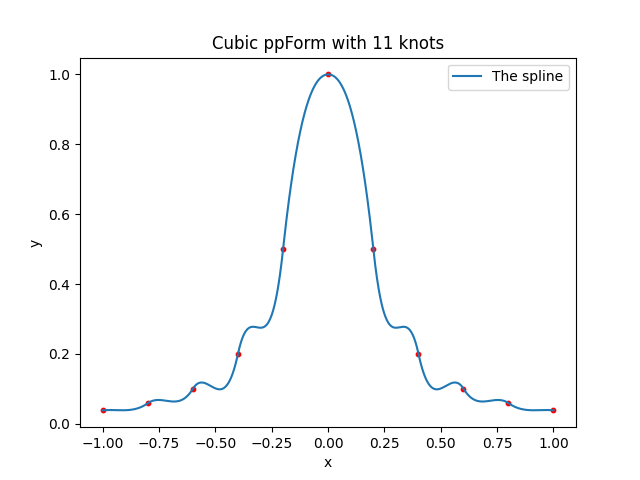
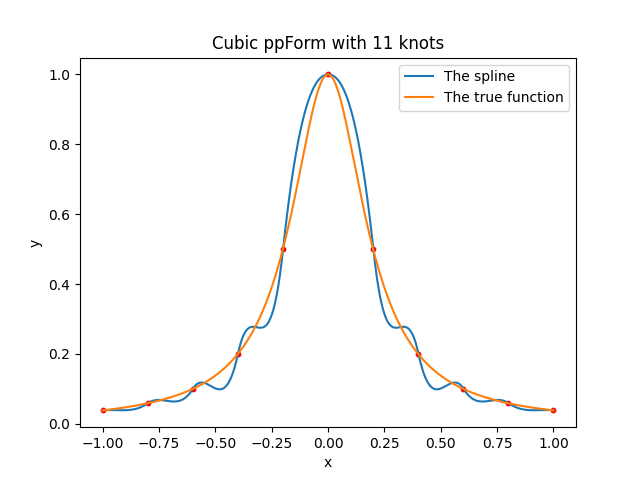
Task_C

diff --git a/Project/src/Bspline.h b/Project/src/Bspline.h
@@ -63,6 +63,63 @@ public:
         return Spline(N, knots, polynomials);
     }
 
+    Spline cardinal_quad_Bspline() {
+        double h1 = knots[1].first - knots[0].first;
+        double h2 = knots[N - 1].first - knots[N - 2].first;
+        for (int i = 1; i <= n; ++i) {
+            knots.insert(knots.begin(), std::make_pair(knots[0].first - h1, 0.0));
+            knots.push_back(std::make_pair(knots[N - 1 + i].first + i * h2, 0.0));
+        }
+        for (int i = 1; i <= N; ++i)
+            construct_basis_polynomials(i, n);
+
+        double coeff_matrix[N * N];
+        coeff_matrix[0] = 5;
+        coeff_matrix[N] = 1;
+        for (int i = 1; i < N - 1; ++i) {
+            coeff_matrix[i*N - N - i] = 1;
+            coeff_matrix[i*N + i] = 6;
+            coeff_matrix[i*N + N + i] = 1;
+        }
+        coeff_matrix[N*N - N - 1] = 1;
+        coeff_matrix[N*N - 1] = 5;
+
+        double rhs[N];
+        for (int i = 0; i < N; ++i)
+            rhs[i] = 8 * knots[i].second;
+        rhs[0] -= 2 * boundary_conditions[0];
+        rhs[N - 1] -= 2 * boundary_conditions[1];
+
+        EquationSolver linear_system(N, coeff_matrix, rhs);
+        double *solution = linear_system.solve();
+
+        std::vector<Polynomial> polynomials;
+        polynomials.push_back(Polynomial(0, {0.0}));
+        for (int i = 1; i <= N + 1; ++i) {
+            if (i == 1) {
+                double co = 2 * knots[2].first - solution[0];
+                Polynomial temp(0, {co});
+                polynomials.push_back(temp * basis_polynomials[i][n][0]);
+                polynomials.push_back(temp * basis_polynomials[i][n][1]);
+                continue;
+            }
+            if (i == N + 1) {
+                double co = 2 * knots[N + 1].first - solution[N - 2];
+                Polynomial temp(0, {co});
+                polynomials[N + 1] = polynomials[N + 1] + temp * basis_polynomials[i][n][0];
+                continue;
+            }
+            Polynomial temp(0, {solution[i - 2]});
+            polynomials[i] = polynomials[i] + temp * basis_polynomials[i][n][0];
+            polynomials.push_back(temp * basis_polynomials[i][n][1]); 
+        }
+        for (int i = 0; i <= n; ++i)
+            polynomials.erase(polynomials.begin());
+        for (int i = 0; i < n; ++i)
+            knots.erase(knots.begin());
+        return Spline(N, knots, polynomials);
+    }
+
     Spline complete_cubic_Bspline() {
         double h1 = knots[1].first - knots[0].first;
         double h2 = knots[N - 1].first - knots[N - 2].first;
@@ -70,6 +127,10 @@ public:
             knots.insert(knots.begin(), std::make_pair(knots[0].first - h1, 0.0));
             knots.push_back(std::make_pair(knots[N - 1 + i].first + i * h2, 0.0));
         }
+
+        basis_polynomials.reserve(N + 10);
+        for (auto& second_element: basis_polynomials) 
+            second_element.reserve(n + 5);
 
         for (int i = 1; i <= N + n - 1; ++i)
             construct_basis_polynomials(i, n);
@@ -80,9 +141,9 @@ public:
         coeff_matrix[N] = (knots[3].first - knots[2].first) / (knots[4].first + knots[3].first - 2 * knots[1].first);
 
         for (int i = 1; i < N - 1; ++i) {
-            coeff_matrix[(i - 1)*N + i] = basis_polynomials[i + 1][n][2](knots[i + 2].first);
+            coeff_matrix[i*N - N + i] = basis_polynomials[i + 1][n][2](knots[i + 2].first);
             coeff_matrix[i*N + i] = basis_polynomials[i + 2][n][1](knots[i + 2].first);
-            coeff_matrix[i*N + i + 1] = basis_polynomials[i + 3][n][0](knots[i + 2].first);
+            coeff_matrix[i*N + N + 1] = basis_polynomials[i + 3][n][0](knots[i + 2].first);
         }
 
         coeff_matrix[N*N - N - 1] = (knots[N + 1].first - knots[N].first) / (2 * knots[N + 2].first - knots[N + 2].first - knots[N - 1].first);
@@ -135,6 +196,10 @@ public:
             knots.push_back(std::make_pair(knots[N - 1 + i].first + i * h2, 0.0));
         }
 
+        basis_polynomials.reserve(N + 10);
+        for (auto& second_element: basis_polynomials) 
+            second_element.reserve(n + 5);
+
         for (int i = 1; i <= N + n - 1; ++i)
             construct_basis_polynomials(i, n);
 
@@ -143,9 +208,9 @@ public:
         coeff_matrix[0] = 1.0/3 + (knots[4].first - knots[2].first) / (2 * (knots[4].first + knots[3].first - 2 * knots[2].first));
 
         for (int i = 1; i < N - 1; ++i) {
-            coeff_matrix[(i - 1)*N + i] = basis_polynomials[i + 1][n][2](knots[i + 2].first);
+            coeff_matrix[i*N - N + i] = basis_polynomials[i + 1][n][2](knots[i + 2].first);
             coeff_matrix[i*N + i] = basis_polynomials[i + 2][n][1](knots[i + 2].first);
-            coeff_matrix[i*N + i + 1] = basis_polynomials[i + 3][n][0](knots[i + 2].first);
+            coeff_matrix[i*N + N + i] = basis_polynomials[i + 3][n][0](knots[i + 2].first);
         }
 
         coeff_matrix[N*N - 1] = 1.0/3 + (knots[N + 1].first - knots[N - 1].first) / (2 * (2 * knots[N + 1].first - knots[N].first - knots[N - 1].first));
@@ -198,6 +263,10 @@ public:
         knots.push_back(std::make_pair(knots[N + 2].first + knots[5].first - knots[3].first, knots[5].second));
         knots.push_back(std::make_pair(knots[N + 2].first + knots[6].first - knots[3].first, knots[6].second));
 
+        basis_polynomials.reserve(N + 10);
+        for (auto& second_element: basis_polynomials) 
+            second_element.reserve(n + 5);
+
         for (int i = 1; i <= N + n - 1; ++i)
             construct_basis_polynomials(i, n);
 
@@ -208,9 +277,9 @@ public:
         coeff_matrix[N * N - 2 * N] = basis_polynomials[1][n][2](knots[3].first);
 
         for (int i = 1; i < N - 1; ++i) {
-            coeff_matrix[(i - 1)*N + i] = basis_polynomials[i + 1][n][2](knots[i + 2].first);
+            coeff_matrix[i*N - N + i] = basis_polynomials[i + 1][n][2](knots[i + 2].first);
             coeff_matrix[i*N + i] = basis_polynomials[i + 2][n][1](knots[i + 2].first);
-            coeff_matrix[i*N + i + 1] = basis_polynomials[i + 3][n][0](knots[i + 2].first);
+            coeff_matrix[i*N + N + i] = basis_polynomials[i + 3][n][0](knots[i + 2].first);
         }
 
         coeff_matrix[2 * N - 1] = basis_polynomials[N + 2][n][0](knots[N + 2].first);
@@ -263,6 +332,10 @@ public:
             knots.insert(knots.begin(), std::make_pair(knots[0].first - h1, 0.0));
             knots.push_back(std::make_pair(knots[N - 1 + i].first + i * h2, 0.0));
         }
+
+        basis_polynomials.reserve(N + 2 * n + 1);
+        for (auto& second_element: basis_polynomials) 
+            second_element.reserve(n + 3);
 
         for (int i = 1; i <= N + n - 1; ++i)
             construct_basis_polynomials(i, n);

diff --git a/Project/doc/design.tex b/Project/doc/design.tex
@@ -266,6 +266,7 @@ The B-splines are a special case of the PP-splines. From \cref{sec:pp-form-splin
       0 & \text{otherwise}.
     \end{cases}
   \end{equation}
+  \label{def:b-spline}
 \end{definition}
 
 \begin{theorem}
@@ -303,6 +304,71 @@ And we have a theorem about the derivatives of B-splines yielded by \cref{eq:b-s
     \frac{\mathrm{d}}{\mathrm{d}x}B_i^n(x) = \frac{nB_i^{n - 1}(x)}{t_{i + n + 1} - t_{i - 1}} - \frac{nB_{i + 1}^{n - 1}(x)}{t_{i + n} - t_i}, \quad \forall x \in \mathbb{R}.
     \label{eq:b-spline-derivative}
   \end{equation}
+\end{theorem}
+
+\subsubsection{Cardinal B-splines}
+
+\begin{definition}
+  The \textit{cardinal B-spline} of degree $n$, denoted by $B_{i, \mathbb{Z}}^n$, is the B-spline in the \cref{def:b-spline} on the knot set $\mathbb{Z}$.
+  \label{def:cardinal-b-spline}
+\end{definition}
+
+For this special kind of B-spline, we have two theorems.
+
+\begin{theorem}
+  There is a unique B-spline $S(x) \in \mathbb{S}_3^2$ that interpolates $f(x)$ at $1, 2, \cdots, N$ with $S'(1) = f'(1)$ and $S'(N) = f'(N)$. Furthermore, this B-spline is 
+  \begin{equation}
+    S(x) = \sum_{i = -1}^N a_i b_{i, \mathbb{Z}}^3(x),
+    \label{eq:cardinal-cubic-b-spline-interpolation}
+  \end{equation}
+  where 
+  \begin{equation}
+    a_{-1} = a_1 - 2f'(1),\quad a_N = a_{N - 2} + 2f'(N),
+    \label{eq:cardinal-cubic-b-spline-coefficients}
+  \end{equation}
+  and $\mathbf{a}^T = [a_0, a_1, \cdots, a_{N - 1}]$ is the solution of the linear system $M \mathbf{a} = \mathbf{b}$ with 
+  \begin{equation}
+    \begin{aligned}
+      \mathbf{b}^T &= [3f(1) + f'(1), 6f(2), \cdots, 6f(N - 1), 3f(N) - f'(N)], \\
+      M &= \begin{bmatrix}
+        2 & 1 &   &   &   \\
+        1 & 4 & 1 &   &   \\
+          & \ddots & \ddots & \ddots &   \\
+          &   & 1 & 4 & 1 \\
+          &   &   & 1 & 2
+      \end{bmatrix}.
+    \end{aligned}
+    \label{eq:cardinal-cubic-b-spline-linear-system}
+  \end{equation}
+  \label{thm:cardinal-cubic-b-spline-interpolation}
+\end{theorem}
+
+\begin{theorem}
+  There is a unique B-spline $S(x) \in \mathbb{S}_2^1$ that interpolates $f(x)$ at $t_i = i + \frac{1}{2}$ for each $i = 1, 2, \cdots, N$ with end conditions $S(1) = f(1)$ and $S(N) = f(N)$. Furthermore, this B-spline is 
+  \begin{equation}
+    S(x) = \sum_{i = 1}^N a_i B_{i, \mathbb{Z}}^2(x),
+    \label{eq:cardinal-quadratic-b-spline-interpolation}
+  \end{equation}
+  where 
+  \begin{equation}
+    a_0 = 2f(1) - a_1,\quad a_N = 2f(N) - a_{N - 1},
+    \label{eq:cardinal-quadratic-b-spline-coefficients}
+  \end{equation}
+  and $\mathbf{a}^T = [a_1, a_2, \cdots, a_N]$ is the solution of the linear system $M \mathbf{a} = \mathbf{b}$ with 
+  \begin{equation}
+    \begin{aligned}
+      \mathbf{b}^T &= [8f(\frac{3}{2}) - 2f(1), 8f(\frac{5}{2}), \cdots, 8f(N - \frac{3}{2}), 8f(N - \frac{1}{2}) - 2f(N)], \\
+      M &= \begin{bmatrix}
+        5 & 1 &   &   &   \\
+        1 & 6 & 1 &   &   \\
+          & \ddots & \ddots & \ddots &   \\
+          &   & 1 & 6 & 1 \\
+          &   &   & 1 & 5
+      \end{bmatrix}.
+    \end{aligned}
+    \label{eq:cardinal-quadratic-b-spline-linear-system}
+  \end{equation}
+  \label{thm:cardinal-quadratic-b-spline-interpolation}
 \end{theorem}
 
 \subsubsection{Linear B-splines}

diff --git a/Project/src/draw_TaskA.py b/Project/src/draw_TaskA.py
@@ -1,0 +1,33 @@
+import numpy as np
+import matplotlib.pyplot as plt
+
+N = int(input())
+for j in range(N):
+
+    filename = input()
+
+    plt.figure()
+    n = int(input())
+    x1 = 0
+    xN = 0
+    for i in range(n):
+        x_temp = float(input())
+        y_temp = float(input())
+        if i == 0:
+            x1 = x_temp 
+        if i == n-1:
+            xN = x_temp
+        plt.scatter([x_temp], [y_temp], color = 'red', zorder = 2, s = 10)
+
+    x = np.linspace(x1, xN, 1000)
+    y1 = []
+    y2 = 1 / (1 + 25 * x ** 2)
+    for i in range(1000):
+        y1.append(float(input()))
+    plt.plot(x, y1, label = 'The spline')
+    plt.plot(x, y2, label = 'The true function')
+    plt.legend()
+    plt.title(filename)
+    plt.xlabel('x')
+    plt.ylabel('y')
+    plt.savefig("../figure/" + filename + ".png")

diff --git a/Project/src/BSpline_cubic.cpp b/Project/src/BSpline_cubic.cpp
@@ -1,0 +1,30 @@
+#include <cstdio>
+#include <iostream>
+#include "Bspline.h"
+
+double func(double x) {
+    return 1.0 / (1.0 + x * x);
+}
+
+double der_func(double x){
+    return -2.0 * x * func(x) * func(x);
+}
+
+int main() {
+    double boundary[2];
+    boundary[0] = der_func(-5.0);
+    boundary[1] = der_func(5.0);
+    printf("2\n");
+    std::vector<std::pair<double, double>> knots;
+    for (int i = 0; i <= 10; ++i) {
+        knots.push_back(std::make_pair(-5.0 + i, func(-5.0 + i)));
+    }
+    Bspline form1(3, 11, knots, boundary);
+    Spline sp1 = form1.complete_cubic_Bspline();
+    printf("Cubic B-spline\n");
+    sp1.generate_data();
+
+    knots.clear();
+    for (int i = 1; i <= 10; ++i) 
+        knots.push_back(std::make_pair(-5.5 + i, func(-5.5 + i)));
+}
